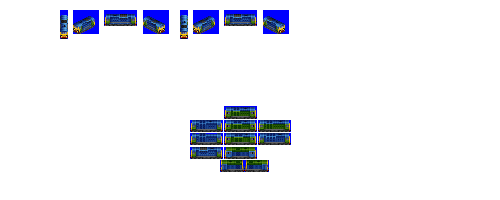
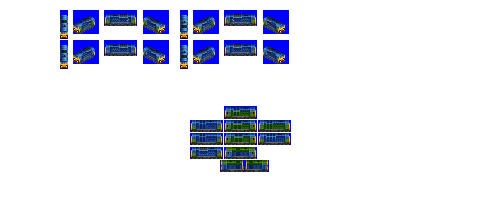
Change: additional livery for Toaster

Changed region(s): [[0.12, 0.18, 0.6, 0.36]]

diff --git a/src/vehicles/pony/toaster.py b/src/vehicles/pony/toaster.py
@@ -19,6 +19,8 @@ def main(roster_id, **kwargs):
         # introduce as gen 6 by design, but then make it early
         intro_year_offset=-15,
         fixed_run_cost_points=220,  # unrealism: run cost nerf for being so high-powered
+        # note that livery names are metadata only and can repeat for different spriterows
+        additional_liveries=["BANGER_BLUE"],
         default_livery_extra_docs_examples=[
             ("COLOUR_GREEN", "COLOUR_YELLOW"),
             ("COLOUR_PALE_GREEN", "COLOUR_YELLOW"),
